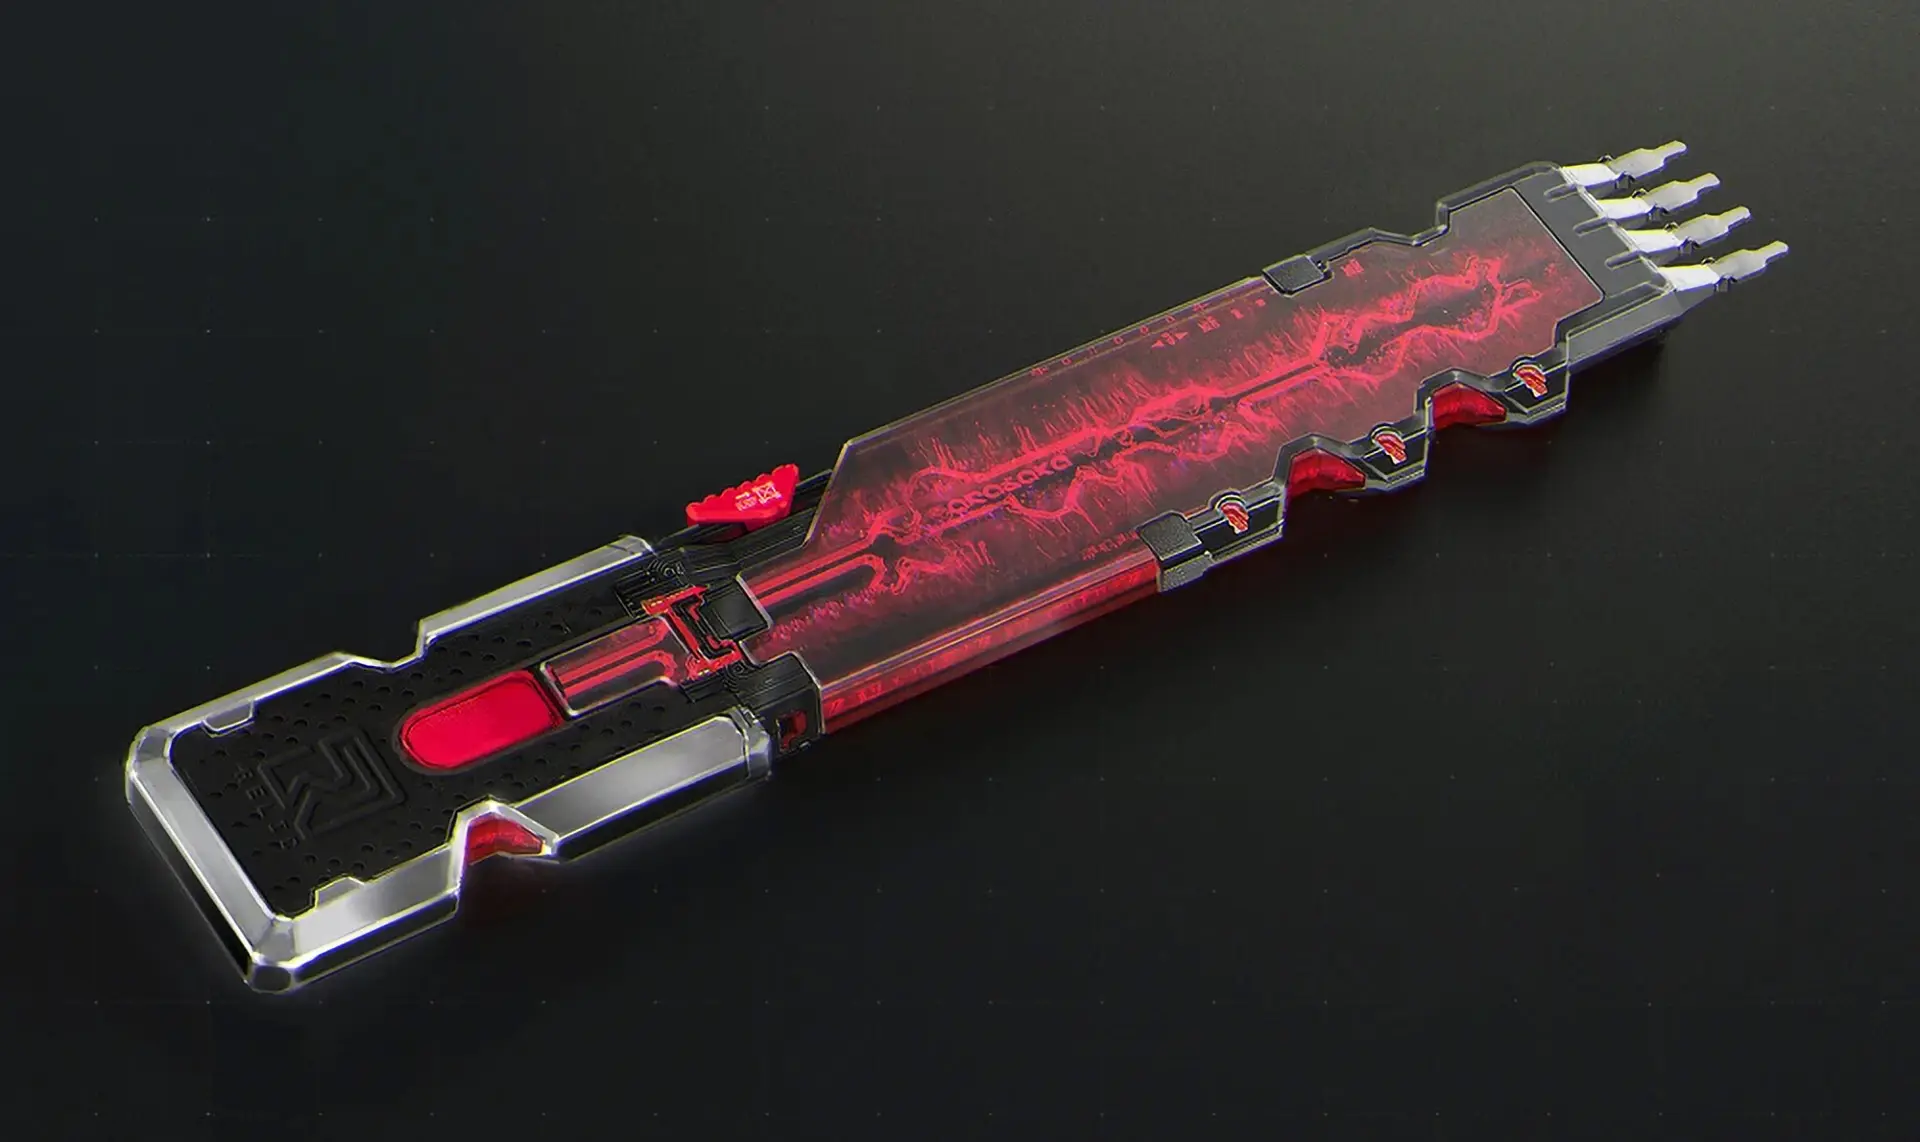
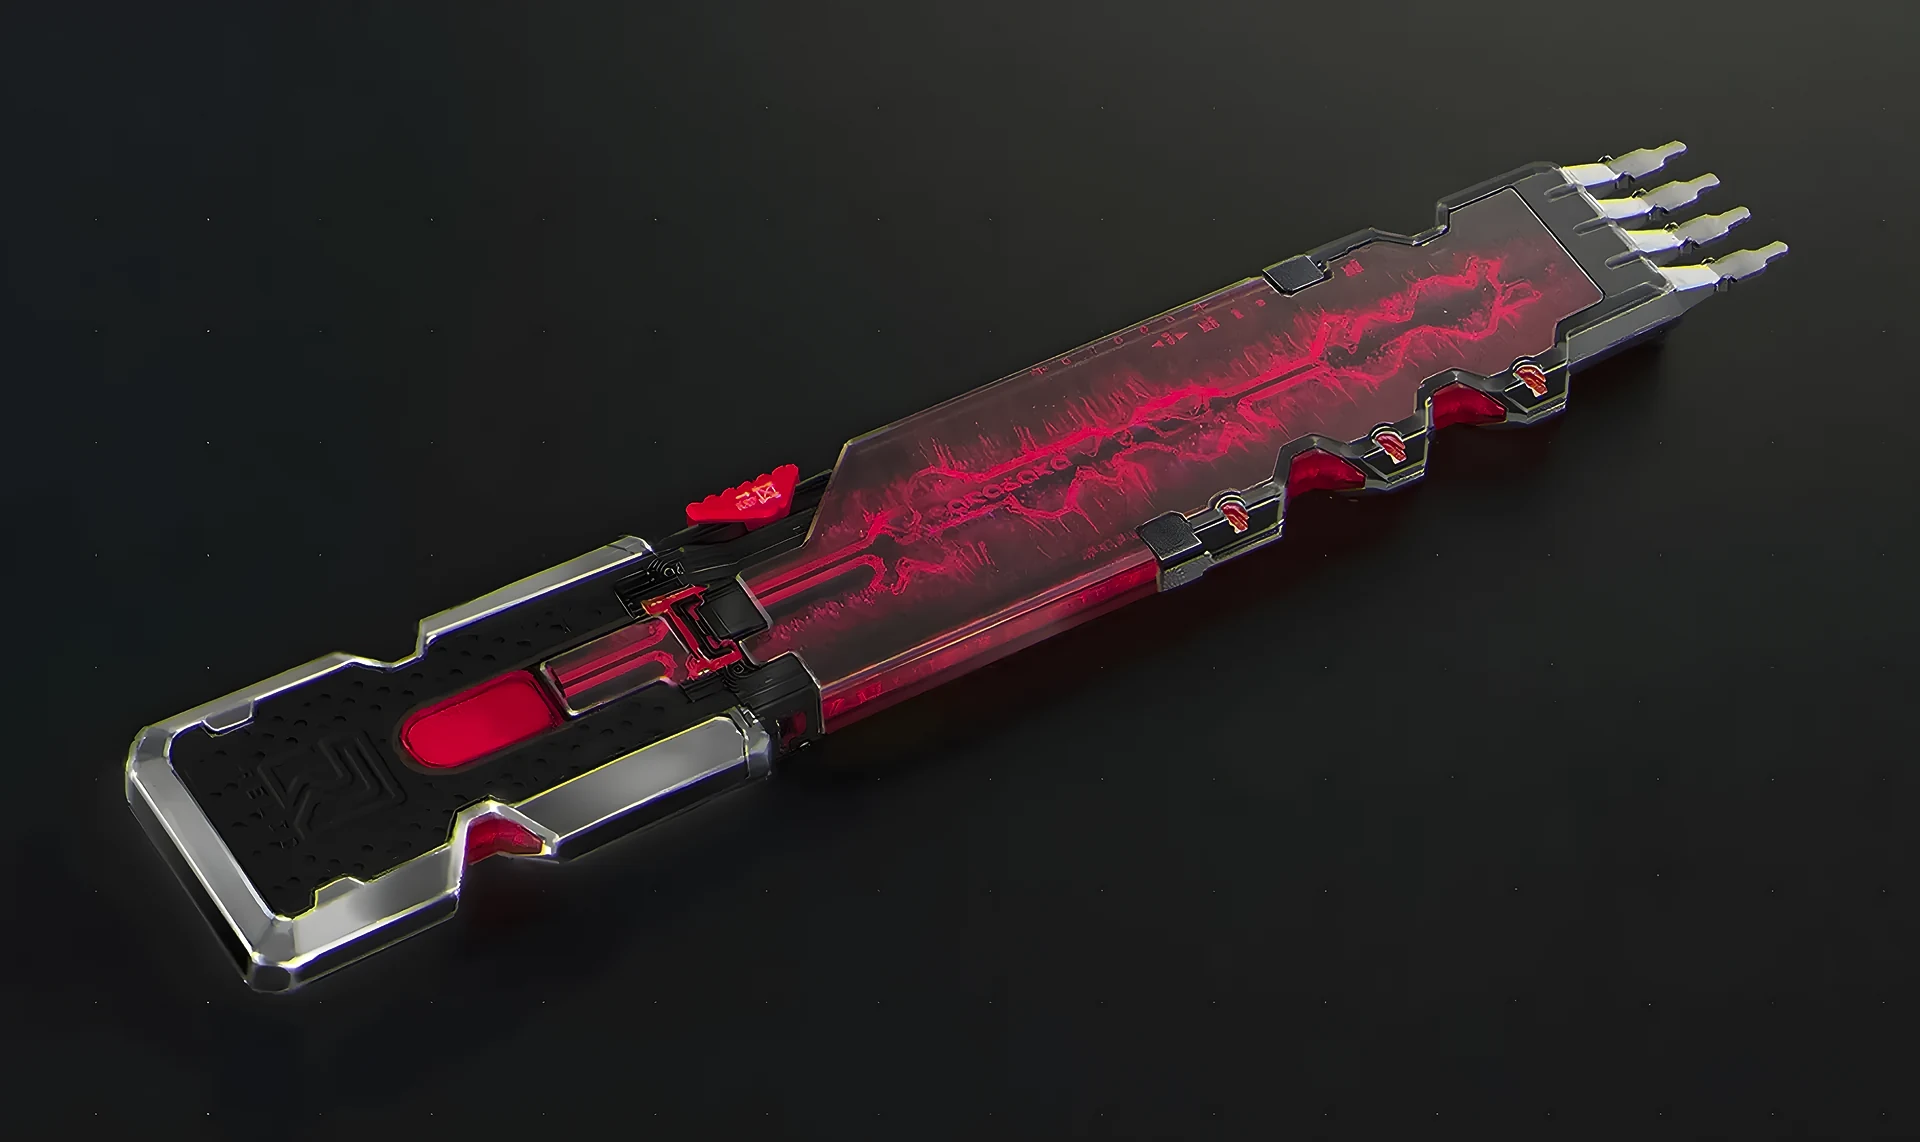
style(engram): sharper Relic render from an upscaled source
Replaced relic.webp and its half-size copy with WebPs made from an
upscaled render: no compression halos around the red traces, cleaner
colour and legible markings on the chip, at 94 KB and 27 KB. The terminal
lists the new file size.

Changed region(s): [[0.0625, 0.1226, 0.9375, 0.8581]]

diff --git a/terminal/metadata.ts b/terminal/metadata.ts
@@ -151,7 +151,7 @@ export const META_OVERRIDES = {
     owner: "silverhand",
     group: "samurai",
     mode: 0o644,
-    size: 64962,
+    size: 96250,
     mediaType: "image/webp",
   },
   "/srv/silverhand/assets/samurai.png": {
